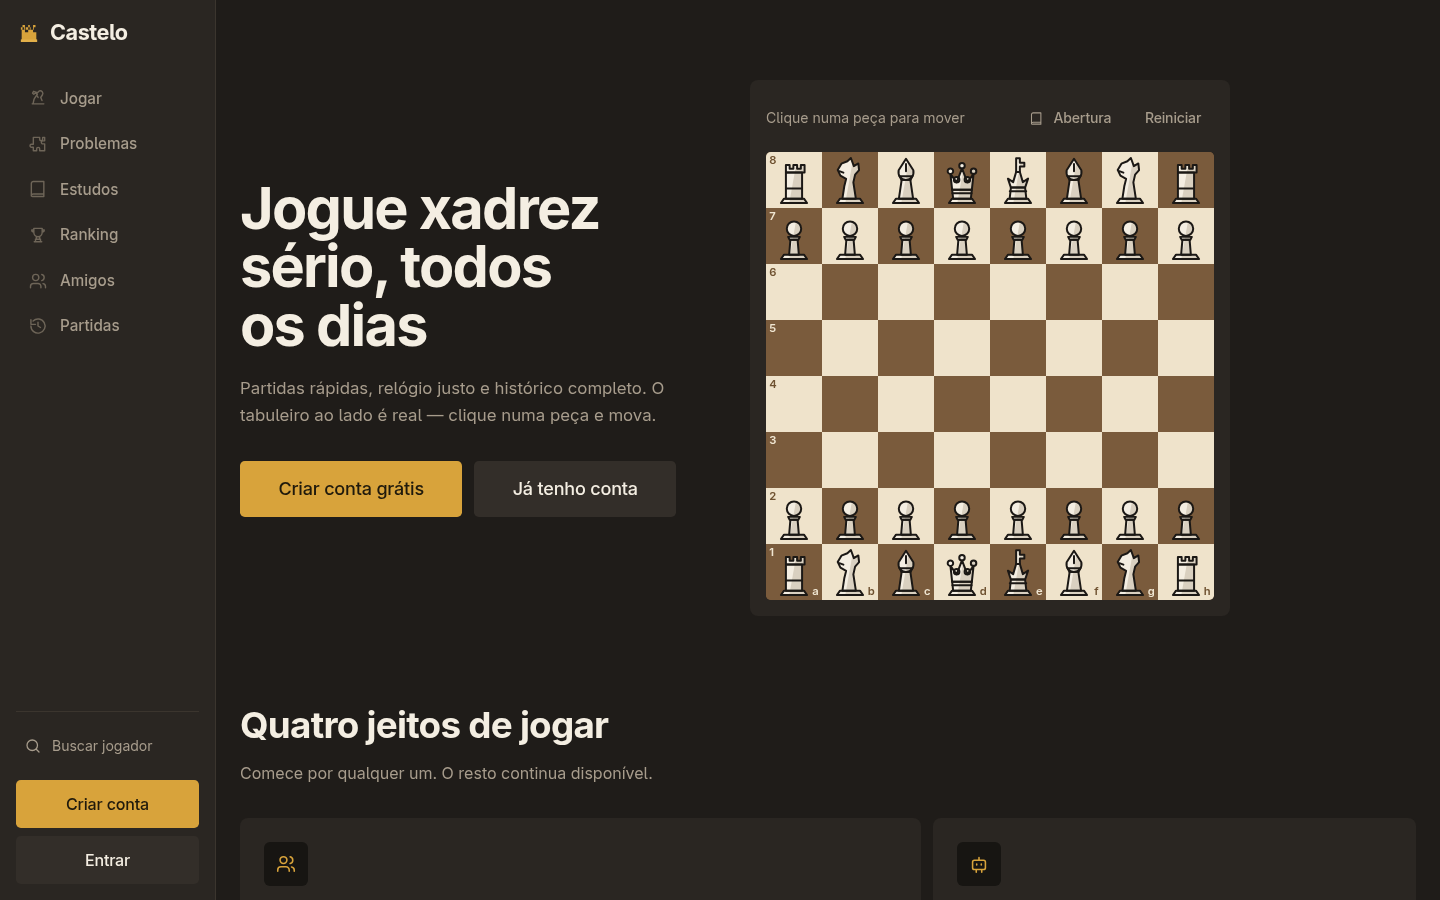
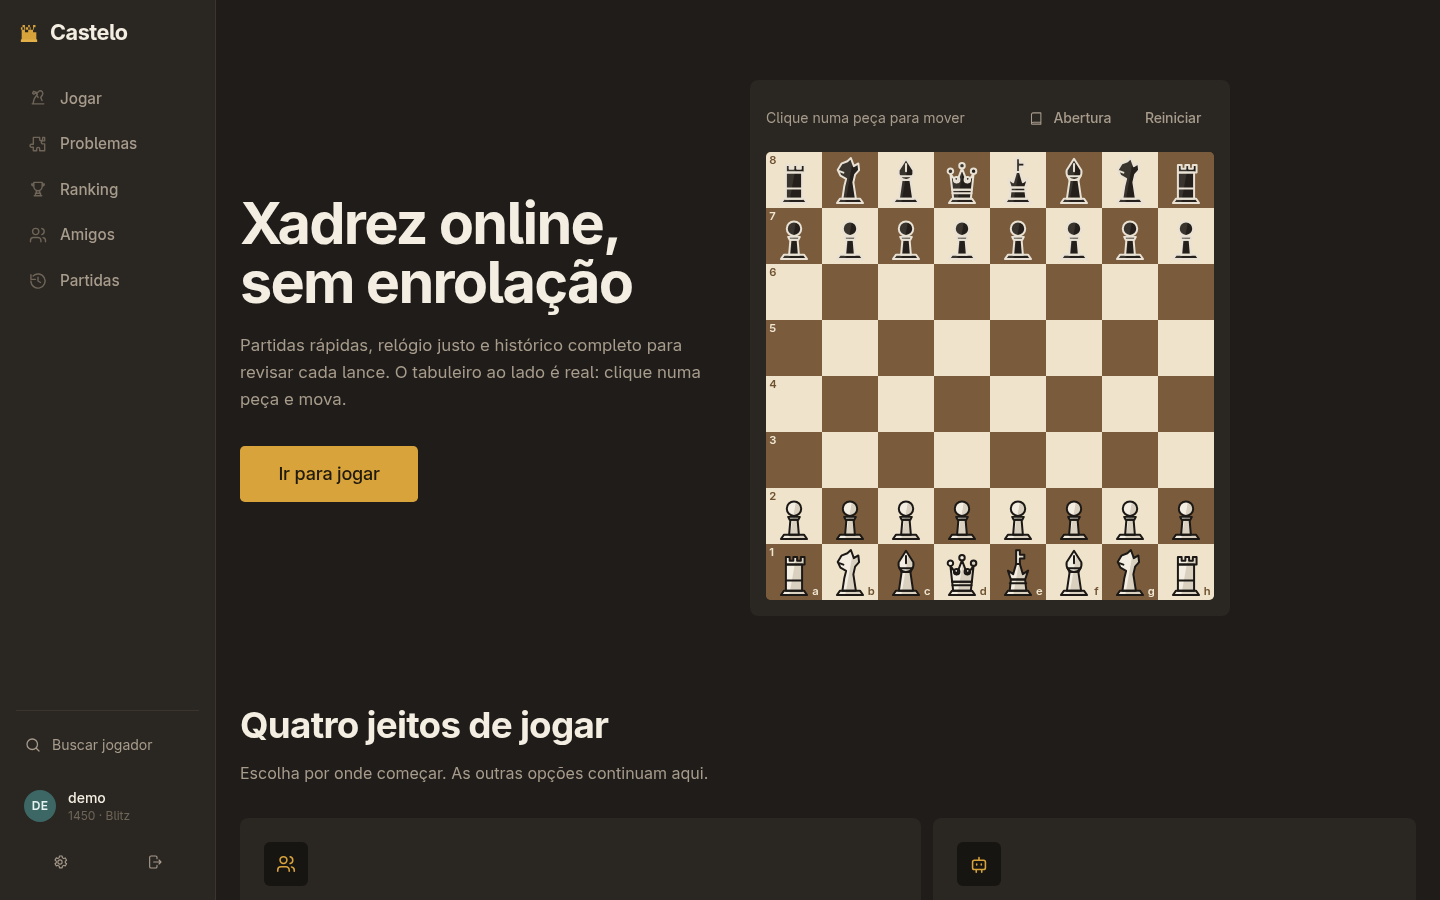
Corrige a cor das peças e reforca os marcadores de lance legal
Duas falhas no tabuleiro:

1. As peças saiam todas da cor clara. O componente Piece emitia as
   classes 'piece-w' e 'piece-b', mas o CSS define '.piece-white' e
   '.piece-black'. Nenhuma classe casava e as duas pontas herdavam o
   ivory da raiz. A traducao w/b para o nome por extenso passou a
   ficar no componente.

2. Os lances legais eram quase invisiveis: os marcadores usavam
   ivory a 42% de opacidade, que some sobre as casas claras. Agora
   sao escuros com aro claro, a casa selecionada tem contorno de
   acento e o hover usa tinta escura nas casas claras e clara nas
   escuras.

Junto, corrige o botao 'Abertura' do quadro de demonstracao: o
split('') quebrava a casa em caracteres e a jogada falhava em
silencio. A abertura italiana foi verificada lance a lance.

diff --git a/apps/web/src/styles/board.css b/apps/web/src/styles/board.css
@@ -9,6 +9,9 @@
   --cb-dark: var(--board-walnut-dark);
   --cb-coord-on-light: var(--board-walnut-coord-on-light);
   --cb-coord-on-dark: var(--board-walnut-coord-on-dark);
+  /* Marcadores de lance legal: escuro com aro claro, para ler nas duas cores de casa. */
+  --cb-marker: rgb(26 20 13 / 0.58);
+  --cb-marker-rim: rgb(255 255 255 / 0.7);
 
   width: 100%;
   max-width: 560px;
@@ -57,8 +60,15 @@
   transition: opacity var(--duration-100) var(--ease-standard);
 }
 
-.cb-square:hover:not(:disabled)::before {
-  opacity: 0.12;
+/* Passagem do ponteiro: tinta escura nas casas claras e clara nas escuras. */
+.cb-square[data-tone="light"]:hover:not(:disabled)::before {
+  background-color: rgb(26 20 13);
+  opacity: 0.13;
+}
+
+.cb-square[data-tone="dark"]:hover:not(:disabled)::before {
+  background-color: #ffffff;
+  opacity: 0.14;
 }
 
 .cb-square:focus-visible {
@@ -66,10 +76,14 @@
   outline-offset: -2px;
 }
 
-/* Casa selecionada: tinta de aceto, discreta. */
+/* Casa selecionada: tinta de aceto com contorno, para nao passar despercebida. */
 .cb-square[data-state~="selected"]::before {
-  opacity: 0.42;
+  opacity: 0.5;
   background-color: var(--color-accent);
+}
+
+.cb-square[data-state~="selected"] {
+  box-shadow: inset 0 0 0 2px var(--color-accent);
 }
 
 /* Ultimo lance: lavagem de aceto mais fraca. */
@@ -130,18 +144,18 @@
 }
 
 .cb-marker--dot {
-  width: 26%;
-  height: 26%;
+  width: 32%;
+  height: 32%;
   border-radius: 999px;
-  background-color: var(--color-ink);
-  opacity: 0.42;
+  background-color: var(--cb-marker);
+  box-shadow: 0 0 0 1px var(--cb-marker-rim);
 }
 
 .cb-marker--capture {
-  inset: 6%;
+  inset: 4%;
   border-radius: 999px;
-  border: 0.22rem solid var(--color-ink);
-  opacity: 0.42;
+  border: 0.3rem solid var(--cb-marker);
+  box-shadow: inset 0 0 0 1px var(--cb-marker-rim);
 }
 
 /* ---------------------------------------------------------------- *

diff --git a/apps/web/src/components/demo/DemoBoard.tsx b/apps/web/src/components/demo/DemoBoard.tsx
@@ -4,19 +4,18 @@ import { ChessBoard } from '../board/ChessBoard.tsx';
 import { Button } from '../ui/Button.tsx';
 import { Icon } from '../icons.tsx';
 
+/** Abertura italiana — sequência legal verificada lance a lance. */
 const OPENING: string[] = [
   'e2e4',
   'e7e5',
   'g1f3',
   'b8c6',
   'f1c4',
-  'g8f6',
-  'e1g1',
   'f8c5',
-  'd2d4',
-  'c5d4',
-  'f3d4',
+  'e1g1',
   'g8f6',
+  'd2d3',
+  'd7d6',
 ];
 
 /**
@@ -68,14 +67,20 @@ export function DemoBoard() {
 
   function playOpening() {
     const next = new Position();
-    for (const move of OPENING) {
-      const [from, to] = move.split('');
-      next.move(from, to);
+    try {
+      for (const move of OPENING) {
+        next.move(move.slice(0, 2), move.slice(2, 4));
+      }
+    } catch {
+      // Abertura inválida: mantém a posição inicial.
+      reset();
+      return;
     }
     setPosition(next);
     setSelected(null);
-    setHistory([]);
-    setLastMove({ from: OPENING.at(-1)!.slice(0, 2), to: OPENING.at(-1)!.slice(2, 4) });
+    setHistory(next.history().map((move) => move.san));
+    const last = OPENING.at(-1)!;
+    setLastMove({ from: last.slice(0, 2), to: last.slice(2, 4) });
   }
 
   return (

diff --git a/apps/web/src/components/pieces/Piece.tsx b/apps/web/src/components/pieces/Piece.tsx
@@ -11,6 +11,15 @@ export interface PieceProps {
 }
 
 /**
+ * A cor do tabuleiro e `w`/`b`, mas a classe de tema usa o nome por extenso.
+ * A traducao fica aqui para que o CSS nunca dependa do formato do FEN.
+ */
+const COLOR_CLASS: Record<PieceColor, string> = {
+  w: 'piece-white',
+  b: 'piece-black',
+};
+
+/**
  * Uma peca do tabuleiro.
  *
  * As cores vem de custom properties (`.piece-white` / `.piece-black`),
@@ -21,11 +30,13 @@ export function Piece({ type, color, className }: PieceProps) {
   const geometry = PIECE_GEOMETRY[type];
   const rawId = useId();
   const clipId = `castelo-piece-${rawId.replace(/[^a-zA-Z0-9]/g, '')}`;
+  const classes = ['piece', COLOR_CLASS[color]];
+  if (className) classes.push(className);
 
   return (
     <svg
       viewBox={PIECE_VIEW_BOX}
-      className={className ? `piece piece-${color} ${className}` : `piece piece-${color}`}
+      className={classes.join(' ')}
       aria-hidden="true"
       focusable="false"
       shapeRendering="geometricPrecision"

diff --git a/docs/DECISOES.md b/docs/DECISOES.md
@@ -73,6 +73,23 @@ mantém a CSP em `font-src 'self'`.
 para uma rota inexistente seria pior do que não oferecer a opção. O item volta junto com o
 conteúdo, sem dados fictícios no lugar.
 
+## Tabuleiro
+
+**Classe de cor das peças.** A cor no tabuleiro é `w`/`b` (como no FEN), mas o CSS define
+`.piece-white` e `.piece-black`. O componente `Piece` traduz `w`/`b` para esses nomes: o CSS não
+depende do formato do FEN e o `Piece` nunca emite uma classe que não exista na folha de estilo.
+
+**Marcadores de lance legal em escuro com aro claro.** A primeira versão usava ivory a 42% de
+opacidade — praticamente invisível sobre as casas claras do tabuleiro. Agora o marcador é
+`rgb(26 20 13 / 0.58)` com aro branco, o que lê tanto nas casas claras quanto nas escuras. A casa
+selecionada ganhou contorno de acento e o hover usa tinta escura nas casas claras e clara nas
+escuras.
+
+**Abertura do quadro de demonstração.** A sequência inicial era montada com `split('')`, que
+quebrava `e2e4` em caracteres e fazia o botão "Abertura" falhar silenciosamente. Passou a fatiar a
+casa por posição, com a abertura italiana verificada lance a lance e fallback para a posição
+inicial caso a sequência deixe de ser legal.
+
 ## Processamento de texto
 
 O texto visível do site foi reescrito com a skill de escrita profissional: removidas formulações
